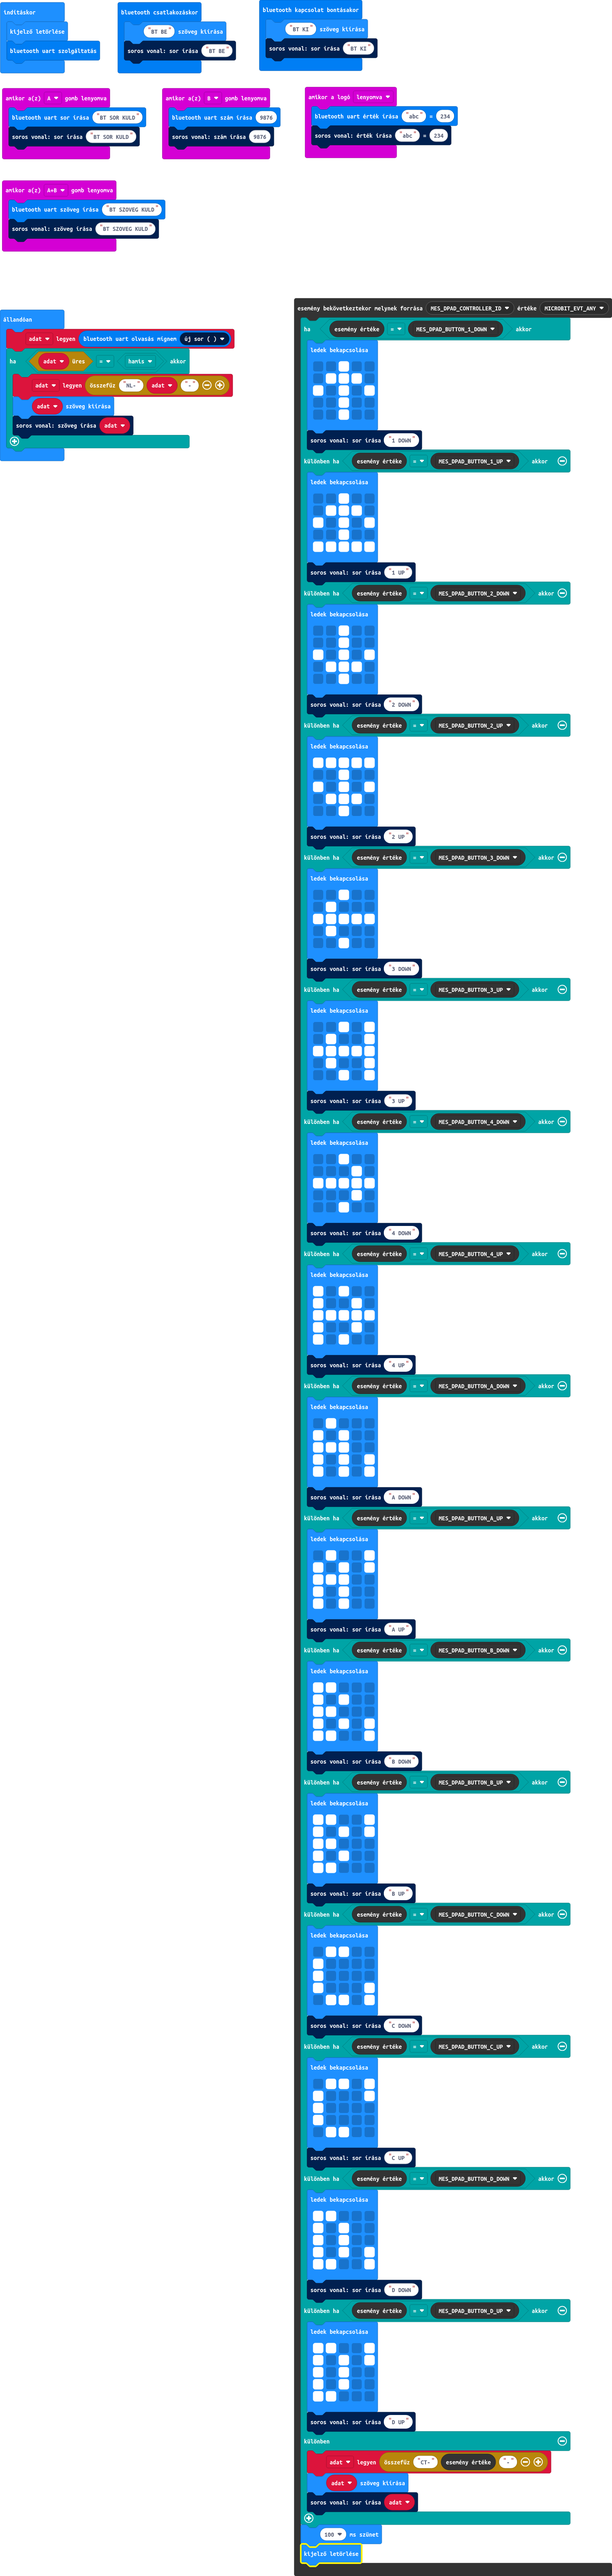
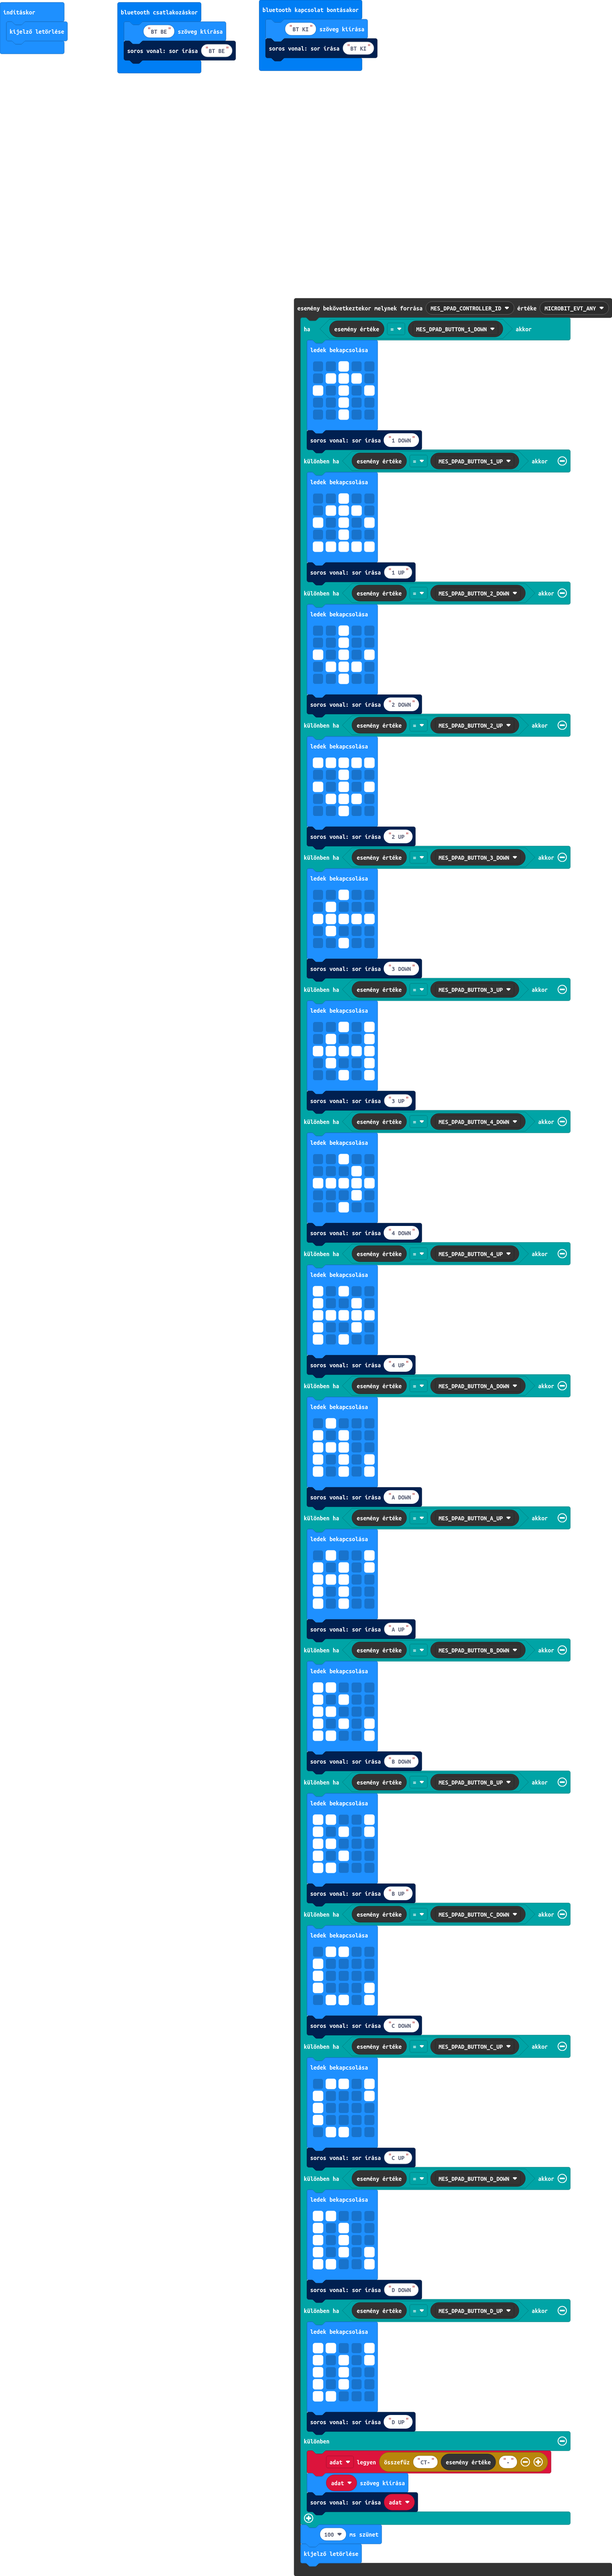
D-PAD használatához nem kell az UART

Changed region(s): [[0.0, 0.0, 0.4623, 0.1871], [0.4931, 0.0312, 0.7397, 0.0624], [0.4931, 0.9665, 0.5239, 0.9977]]

diff --git a/main.ts b/main.ts
@@ -6,18 +6,6 @@ bluetooth.onBluetoothDisconnected(function () {
     basic.showString("BT KI")
     serial.writeLine("BT KI")
 })
-input.onButtonPressed(Button.A, function () {
-    bluetooth.uartWriteLine("BT SOR KULD")
-    serial.writeLine("BT SOR KULD")
-})
-input.onButtonPressed(Button.AB, function () {
-    bluetooth.uartWriteString("BT SZOVEG KULD")
-    serial.writeString("BT SZOVEG KULD")
-})
-input.onButtonPressed(Button.B, function () {
-    bluetooth.uartWriteNumber(9876)
-    serial.writeNumber(9876)
-})
 control.onEvent(EventBusSource.MES_DPAD_CONTROLLER_ID, EventBusValue.MICROBIT_EVT_ANY, function () {
     if (control.eventValue() == EventBusValue.MES_DPAD_BUTTON_1_DOWN) {
         basic.showLeds(`
@@ -171,18 +159,5 @@ control.onEvent(EventBusSource.MES_DPAD_CONTROLLER_ID, EventBusValue.MICROBIT_EV
     basic.pause(100)
     basic.clearScreen()
 })
-input.onLogoEvent(TouchButtonEvent.Pressed, function () {
-    bluetooth.uartWriteValue("abc", 234)
-    serial.writeValue("abc", 234)
-})
 let adat = ""
 basic.clearScreen()
-bluetooth.startUartService()
-basic.forever(function () {
-    adat = bluetooth.uartReadUntil(serial.delimiters(Delimiters.NewLine))
-    if (adat.isEmpty() == false) {
-        adat = "NL-" + adat + "-"
-        basic.showString(adat)
-        serial.writeString(adat)
-    }
-})
